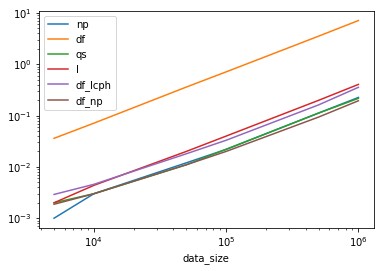
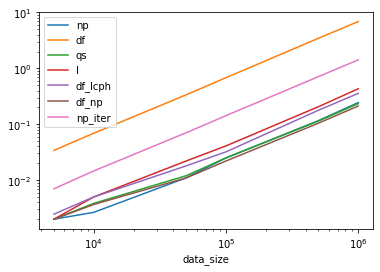
added numpy iter

diff --git a/README.md b/README.md
@@ -69,6 +69,7 @@ For a full desciption of all Qfrom functionality just browse throght the followi
 
 ---
 
+
 # Contents
 - [Qfrom_slim](#qfrom_slim)
 - [Contents](#contents)
@@ -2748,6 +2749,16 @@ def map_func_df_np(df: pd.DataFrame):
     map_age = np.frompyfunc(test_func, 2, 1)
     df['msg'] = map_age(df['name'], df['age'])
     return df
+    
+def map_func_np_iter(data):
+    o = np.full(data['name'].size, '', dtype=np.dtype('U40'))
+    it = np.nditer([data['name'], data['age'], o], [],
+                [['readonly']]*2+ [['writeonly','allocate']])
+    while not it.finished:
+        it[2] = test_func(it[0], it[1])
+        it.iternext()
+    data['msg'] = it.operands[2]
+    return data
 ```
 
 ![](Images/map%20%20by%20func%202%20args%20comparison.png)
@@ -2756,12 +2767,13 @@ runtimes for max data set size n=1 000 000
 
 ||||
 |---|---|---|
-|np	|0.225 s	|1.0%	|
-|df	|7.09 s	|31.476%	|
-|qs	|0.216 s	|0.959%	|
-|l	|0.404 s	|1.793%	|
-|df_lcph	|0.355 s	|1.575%	|
-|df_np	|0.194 s	|0.861%	|
+|np	|0.244 s	|1.0%	|
+|df	|6.877 s	|28.15%	|
+|qs	|0.234 s	|0.958%	|
+|l	|0.431 s	|1.764%	|
+|df_lcph	|0.357 s	|1.461%	|
+|df_np	|0.212 s	|0.867%	|
+|np_iter	|1.419 s	|5.809%	|
 
 [Contents](#contents)
 
